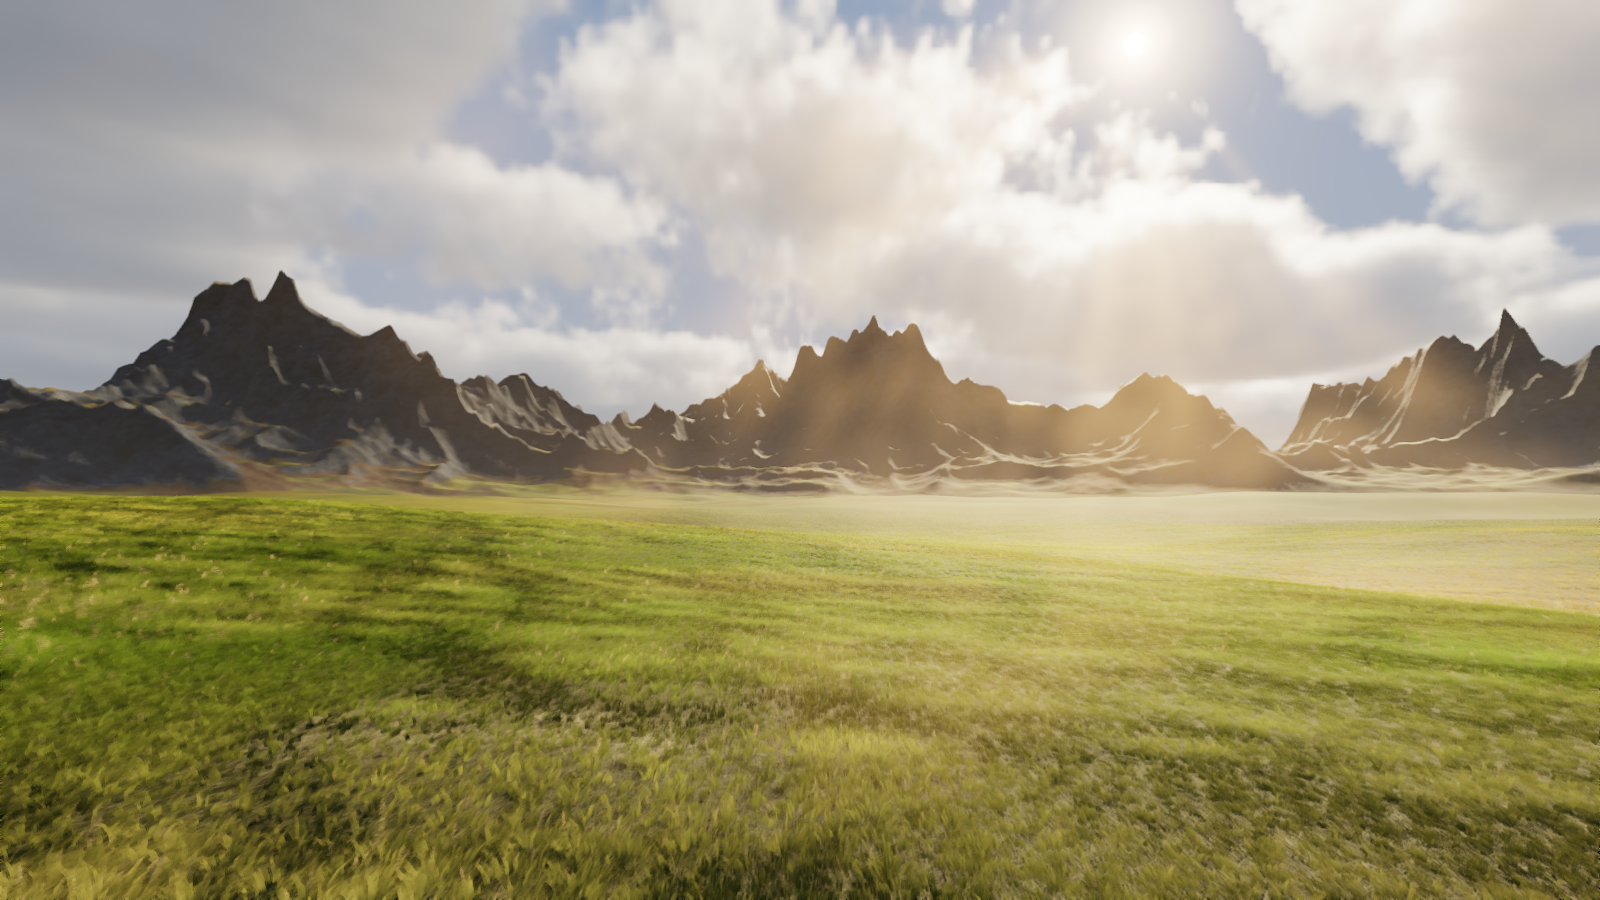
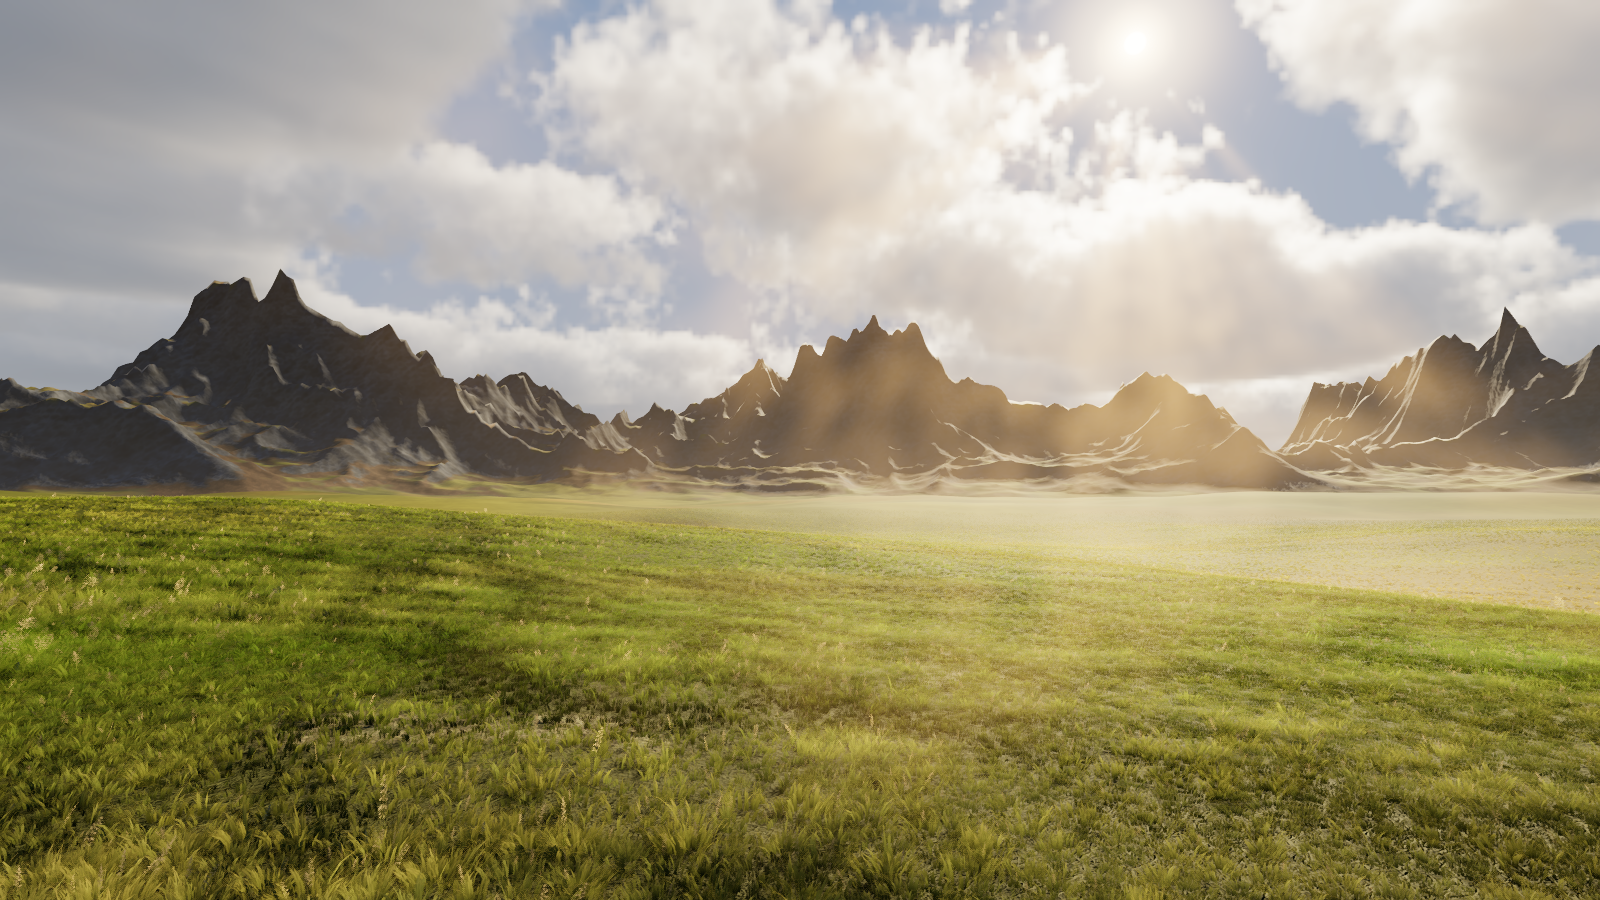
Grass look round 2: closed carpet, per-tuft variety, yellow tips, soft canopy AO
800 cards/m2 (~13 000 blades/m2), tufts pull their blades in less so the
carpet closes; ground close up mostly the canopy colour and darker, worn
spots rare. Tufts differ in height (with height variation, a few big ones)
and each takes its own green to yellow-green; per-blade jitter cut to a
fifth. Every tip yellows towards straw from a greener base. Broad canopy
occlusion towards the stems' feet, SSAO on grass 0.7. No screen-space
contact shadow on grass pixels; near grass shadow map four taps; fewer far
cards (MIN_KEEP 0.012), LOD distance 6.5 m. High 30.1 / Medium 21.1 /
Low 14.0 ms. Log in docs/pending/grass-look.md.

diff --git a/crates/misty_engine/src/terrain/details.rs b/crates/misty_engine/src/terrain/details.rs
@@ -246,7 +246,7 @@ pub fn swathe(p: Vec2, scale: f32) -> f32 {
 /// `grass_worn` in grass_field.wgsl, which shows the soil there).
 pub fn worn(p: Vec2) -> f32 {
     let v = 0.7 * field_noise(p / 2.6 + 91.7) + 0.3 * field_noise(p / 0.9 + 17.3);
-    let t = ((v - 0.73) / 0.12).clamp(0.0, 1.0);
+    let t = ((v - 0.78) / 0.1).clamp(0.0, 1.0);
     t * t * (3.0 - 2.0 * t)
 }
 
@@ -376,7 +376,7 @@ pub fn scatter_level(d: &TerrainData, lo: Vec2, hi: Vec2, level: u32) -> Vec<Bla
                 let (centre, id) = tuft(root, cell, seed ^ 0x7f4a);
                 // Undergrowth stays spread out and fills the ground between the tufts.
                 let under = r(17) < 0.68;
-                let pull = if under { 0.15 } else { 0.6 };
+                let pull = if under { 0.08 } else { 0.45 };
                 let pulled = centre + (root - centre) * (1.0 - pull * clumping);
                 let inside = pulled.cmpge(lo).all() && pulled.cmplt(hi).all();
                 let p = if inside { pulled } else { root };
@@ -393,10 +393,12 @@ pub fn scatter_level(d: &TerrainData, lo: Vec2, hi: Vec2, level: u32) -> Vec<Bla
                 // few stems standing above the rest.
                 let relief = canopy(p);
                 let field = noise::fbm(p.x, p.y, 28.0, 2, seed ^ 0x5d) * 0.5 + 0.5;
-                let tuft_scale = 1.0 + (id - 0.5) * 0.5 * clumping;
-                // Every blade its own height too, so the top line breaks up; the relief
-                // fades out with the height variation (none: one even height).
+                // Every blade its own height too, so the top line breaks up; the relief and
+                // the tufts' sizes fade out with the height variation (none: one even height).
                 let rv = (hv / 0.6).min(1.0);
+                // Tufts differ clearly: some short, some big and tall.
+                let tuft_scale =
+                    1.0 + rv * ((id - 0.5) * 0.9 * clumping + if id > 0.88 { 0.2 } else { 0.0 });
                 let mix = (0.4 * r(3) + rv * (0.42 * relief + 0.18 * field) + (1.0 - rv) * 0.3)
                     .clamp(0.0, 1.0);
                 let outlier = if r(15) < 0.05 { 1.3 + 0.3 * r(16) } else { 1.0 };
@@ -434,7 +436,7 @@ pub fn scatter_level(d: &TerrainData, lo: Vec2, hi: Vec2, level: u32) -> Vec<Bla
                     } else {
                         1.0
                     };
-                let tint = (id - 0.5) * 2.0 * clumping + (r(14) - 0.5) * 0.6;
+                let tint = (id - 0.5) * 2.0 * clumping + (r(14) - 0.5) * 0.2;
                 out.push((
                     key,
                     Blade {

diff --git a/crates/misty_editor/src/sample_meadow.rs b/crates/misty_editor/src/sample_meadow.rs
@@ -82,8 +82,8 @@ fn grass() -> details::DetailSettings {
             ..Default::default()
         },
         on_layer: Some(0),
-        // Cards per m², each a strip of 13–18 thin blades (~11 000 blades per m²).
-        density: 700.0,
+        // Cards per m², each a strip of 13–18 thin blades (~13 000 blades per m²).
+        density: 800.0,
         draw_distance: 160.0,
         // Short turf (ankle height): tufts rise to ~0.3 m, dips sink to ~0.05 m.
         height: [0.07, 0.2],
@@ -96,11 +96,11 @@ fn grass() -> details::DetailSettings {
         wind_speed: 0.9,
         seed_heads: 0.03,
         seed_color: [0.8, 0.72, 0.5],
-        clumping: 0.45,
+        clumping: 0.6,
         bend: 0.8,
         translucency: 0.6,
-        tip_dryness: 0.28,
-        lod_distance: 7.5,
+        tip_dryness: 0.45,
+        lod_distance: 6.5,
         // Soft patches ~40 m across (sweeps of ~130 m): lush dark-green hollows with
         // taller, fuller tufts and paler, drier, shorter stretches; every tuft a little
         // warmer or cooler.
@@ -108,8 +108,8 @@ fn grass() -> details::DetailSettings {
         lush_color: [0.24, 0.34, 0.1],
         lush_amount: 0.6,
         dry_amount: 0.6,
-        // Variation comes from the broad patches; single blades differ little.
-        color_variation: 0.2,
+        // Each tuft its own green or yellow-green; single blades differ little.
+        color_variation: 0.5,
         height_variation: 0.6,
         density_variation: 0.2,
         ground_tint: 1.0,

diff --git a/crates/misty_engine/src/render/terrain_grass.rs b/crates/misty_engine/src/render/terrain_grass.rs
@@ -32,7 +32,7 @@ const COARSE_VERTICES: u32 = 8;
 /// Chunks further than this many LOD distances draw coarse blades.
 const COARSE_FROM: f32 = 1.5;
 /// Fewest blades a far chunk keeps (share of full density).
-const MIN_KEEP: f32 = 0.02;
+const MIN_KEEP: f32 = 0.012;
 /// Far blades grow at most this much wider to cover the ground of the ones left out.
 const MAX_WIDEN: f32 = 3.0;
 

diff --git a/docs/pending/grass-look.md b/docs/pending/grass-look.md
@@ -224,3 +224,39 @@ sun's direction (the reference keeps texture to the horizon); midday is greener 
 the reference's light; no trees. `foliage_lighting_demo_matches_its_generator` (editor)
 fails on main's FoliageLightingDemo data already (density 600 on disk vs 1500 in the
 generator); not touched here.
+
+## Round 2 (after the merge into main 18cef2b)
+
+User: "a lot of gaps between each grass, and all of the grass looks alike. Some should be
+bigger, some slightly yellowish, some greenish, and at the top they're yellowish. And
+there's no ambient occlusion, and the ground shouldn't even be that visible."
+
+- look11: cards 700 → 900 / m², clumping 0.45 → 0.6, tufts' height ±25 % with 12 % big
+  tufts (1.3×), per-tuft hue and value (the per-blade jitter cut to a fifth: hue 0.3 /
+  value 0.2 per blade, 1.0 / 0.5 per tuft, a wider green ↔ yellow-green range), every tip
+  yellowing towards straw (tip dryness 0.45, from a greener base), canopy AO back and
+  visible but broad (occlusion floor 0.4, lit floor 0.55 towards the stems' feet; SSAO on
+  grass 0.7), ground mostly the canopy colour close up (70 %), worn spots rarer,
+  undergrowth 1.8×; far cards fewer (`MIN_KEEP` 0.02 → 0.012). High **41.2 ms** (45.6 M
+  triangles) — too slow.
+- look11b/c: 750 cards / m², LOD 7.5 → 6.5 m, undergrowth 1.5×, the near grass shadow map
+  back to four taps (on a rotated ring of two texels): High 32.3 ms. Variants: contact
+  shadows on grass 2.6 ms, near map 2.0 ms, all grass shadows 3.5 ms, AO prepass 0.8 ms.
+- look12: no screen-space contact shadow on grass pixels (it was at 30 % and read as crisp
+  noise; the canopy occlusion gives the depth), which pays for 800 cards / m²: High 30.5.
+- look13: the tufts pull their blades in less (tall 0.6 → 0.45, undergrowth 0.15 → 0.08)
+  so the carpet closes between them; the ground close up 85 % canopy colour, darker.
+- final: tufts' size variety scales with height variation (uniform settings stay even:
+  `grass_varies_across_the_field`), big tufts 1.2×, lit floor 0.62.
+- **Round 2 final** (`grasslook_final_*`, overwriting round 1's; step renders
+  `grasslook_11_*`, `_12_*`, `_13_*`): High **30.1 ms**, Medium 21.1, Low 14.0 (37.4 /
+  24.6 / 12.1 M triangles; the frame without grass 6.0 ms with the GPU shared); 800 cards
+  / m² ≈ 13 000 visible blades / m² on High (Medium 0.75, Low 0.5 of that). Ground visible
+  2.9 % wide / 1.5 % close (matches bare), 46 % / 23 % (tint swap; the ground close up is
+  85 % canopy colour, so that measure now mostly sees blades' gaps of the same colour).
+  Wide golden colour: hue 54.0 ± 5.6 (reference 49.2 ± 4.3), sat 0.63 ± 0.13 (0.59),
+  val 0.48 ± 0.16 (0.46 ± 0.12), patch24 0.129 (0.087); near band hue 52.5 / val 0.38
+  (reference 52 / 0.36–0.41). Left as before: the field past the 160 m grass is a hazy
+  stand-in in the sun's direction, the middle distance is a little greener than the
+  reference, midday reads greener (64), no trees.
+
